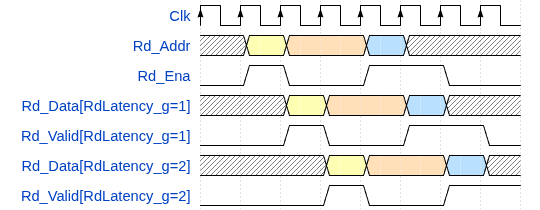
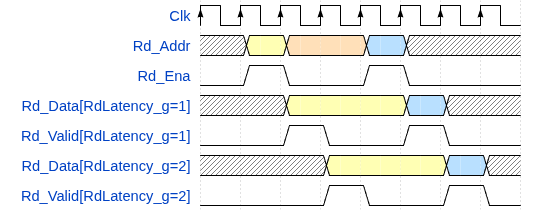
Convert to real read enable (only read RAM when asserted)

diff --git a/doc/base/olo_base_ram_tdp.md b/doc/base/olo_base_ram_tdp.md
@@ -48,7 +48,7 @@ The RAM is implemented in pure VHDL but in a way that allows tools to implement 
 | A_Be     | in     | _Width_g/8_           | All '1' | Port A byte-enables<br>Ignored if _UseByteEnable_g_ = false  |
 | A_WrEna  | in     | 1                     | '0'     | Port A write enable. The memory cell at _A_Addr_ is written only if _A_WrEna_='1'. |
 | A_WrData | in     | _Width_g_             | 0       | Port A write data                                            |
-| A_RdEna  | in     | 1                     | '1'     | Port A read enable. When asserted, _A_RdValid_ is asserted after _RdLatency_g_ cycles. |
+| A_RdEna  | in     | 1                     | '1'     | Port A read enable. When asserted, _A_RdData_ is updated and _A_RdValid_ is asserted after _RdLatency_g_ cycles. |
 | A_RdData | out    | _Width_g_             | N/A     | Port A read data                                             |
 | A_RdValid | out   | 1                     | N/A     | Port A read valid. Asserted _RdLatency_g_ cycles after _A_RdEna_ was asserted. |
 
@@ -62,7 +62,7 @@ The RAM is implemented in pure VHDL but in a way that allows tools to implement 
 | B_Be     | in     | _Width_g*/8_           | All '1' | Port B byte-enables<br>Ignored if _UseByteEnable_g_ = false  |
 | B_WrEna  | in     | 1                     | '0'     | Port B write enable. The memory cell at _B_Addr_ is written only if _B_WrEna_='1'. |
 | B_WrData | in     | _Width_g_             | 0       | Port B write data                                            |
-| B_RdEna  | in     | 1                     | '1'     | Port B read enable. When asserted, _B_RdValid_ is asserted after _RdLatency_g_ cycles. |
+| B_RdEna  | in     | 1                     | '1'     | Port B read enable. When asserted, _B_RdData_ is updated and _B_RdValid_ is asserted after _RdLatency_g_ cycles. |
 | B_RdData | out    | _Width_g_             | N/A     | Port B read data                                             |
 | B_RdValid | out   | 1                     | N/A     | Port B read valid. Asserted _RdLatency_g_ cycles after _B_RdEna_ was asserted. |
 
@@ -88,15 +88,11 @@ required.
 
 ## RdEna and RdValid
 
-The RAM is read and _A_RdData_ / _B_RdData_ are updated every clock cycle, independently of the _A_RdEna_ / _B_RdEna_
-signals.
+The RAM is read and _A_RdData_ / _B_RdData_ are updated only when the _A_RdEna_ / _B_RdEna_ signals are asserted.
 
 The _A_RdEna_ / _B_RdEna_ signals only control the _A_RdValid_ / _B_RdValid_ signals. This means that if _A_RdEna_ is
 asserted, _A_RdValid_ is asserted after _RdLatency_g_ cycles, indicating that the data on _A_RdData_ is valid and can
 be used. This is very useful in pipelined design, especially with configurable _RdLatency_g_ values because it allows
 to design logic around independently of the RAM read latency.
-
-The fact that _A_RdEna_ / _B_RdEna_ and _A_RdValid_ / _B_RdValid_ are used for delay compensation reasons only but
-independent of the actual RAM read process is depicted by below timing diagram:
 
 ![RdValidTiming](./ram/RdValid_TDP.png)

diff --git a/doc/base/olo_base_ram_sdp.md b/doc/base/olo_base_ram_sdp.md
@@ -51,7 +51,7 @@ verify correct mappping by a quick test-synthesis with the target toolchain.
 | Rd_Clk  | in     | 1                     | '0'     | Read-clock - Only used if _IsAsync_g_=true, otherwise _Clk_ is used for the read-port. |
 | Rd_Rst  | in     | 1                     | '0'     | Read-reset synchronous to _Rd_Clk_ - Only used if _IsAsync_g_=true<br>Optional, only resets internal state of _Rd_Valid_<br>Does **NOT** reset the content of memory cells! |
 | Rd_Addr | in     | _ceil(log2(Depth_g))_ | -       | Read address                                                 |
-| Rd_Ena  | in     | 1                     | '1'     | Read enable. When asserted, _Rd_Valid_ is asserted after _RdLatency_g_ cycles. |
+| Rd_Ena  | in     | 1                     | '1'     | Read enable. When asserted, _Rd_Data_ is updated and _Rd_Valid_ is asserted after _RdLatency_g_ cycles.<br>Synchronous to _Clk_ if _IsAsync_g_=false, otherwise synchronous to _Rd_Clk_ |
 | Rd_Data | out    | _Width_g_             | N/A     | Read data                                                    |
 | Rd_Valid | out   | 1                     | N/A     | Read valid. Asserted _RdLatency_g_ cycles after _Rd_Ena_ was asserted. <br>Synchronous to _Clk_ if _IsAsync_g_=false, otherwise synchronous to _Rd_Clk_ |
 
@@ -77,14 +77,11 @@ required.
 
 ## Rd_Ena and Rd_Valid
 
-The RAM is read and _Rd_Data_ is updated accordingly every clock cycle, independently of the _Rd_Ena_ signal.
+The RAM is read and _Rd_Data_ is updated only when _Rd_Ena_ signal is asserted.
 
 The _Rd_Ena_ signal only controls the _Rd_Valid_ signal. This means that if _Rd_Ena_ is asserted, _Rd_Valid_ is
 asserted after _RdLatency_g_ cycles, indicating that the data on _Rd_Data_ is valid and can be used. This is very
 useful in pipelined design, especially with configurable _RdLatency_g_ values because it allows to design logic around
 independently of the RAM read latency.
-
-The fact that _Rd_Ena_ and _Rd_Valid_ are used for delay compensation reasons only but independent of the actual RAM
-read process is depicted by below timing diagram:
 
 ![RdValidTiming](./ram/RdValid_SDP.png)

diff --git a/doc/base/olo_base_ram_sp.md b/doc/base/olo_base_ram_sp.md
@@ -41,7 +41,7 @@ The RAM is implemented in pure VHDL but in a way that allows tools to implement 
 | Be     | in     | _Width_g/8_           | All '1' | Byte-enables<br>Ignored if _UseByteEnable_g_ = false         |
 | WrEna  | in     | 1                     | '1'     | Write enable. The memory cell at _Addr_ is written only if _WrEna_='1'. |
 | WrData | in     | _Width_g_             | -       | Write data                                                   |
-| RdEna  | in     | 1                     | '1'     | Read enable - Optional signal <br> see [RdEna and RdValid](#rdena-and-rdvalid) |
+| RdEna  | in     | 1                     | '1'     | Read enable. When asserted, _RdData_ is updated and _RdValid_ is asserted after _RdLatency_g_ cycles.|
 | RdData | out    | _Width_g_             | N/A     | Read data                                                    |
 | RdValid | out   | 1                     | N/A     | Read valid. <br>Asserted _RdLatency_g_ cycles after _RdEna_ was asserted. |
 
@@ -67,14 +67,11 @@ required.
 
 ## RdEna and RdValid
 
-The RAM is read and _RdData_ is updated accordingly every clock cycle, independently of the _RdEna_ signal.
+TThe RAM is read and _RdData_ is updated only when _RdEna_ signal is asserted.
 
 The _RdEna_ signal only controls the _RdValid_ signal. This means that if _RdEna_ is asserted, _RdValid_ is asserted
 after _RdLatency_g_ cycles, indicating that the data on _RdData_ is valid and can be used. This is very useful in
 pipelined design, especially with configurable _RdLatency_g_ values because it allows to design logic around
 independently of the RAM read latency.
-
-The fact that _RdEna_ and _RdValid_ are used for delay compensation reasons only but independent of the actual RAM
-read process is depicted by below timing diagram:
 
 ![RdValidTiming](./ram/RdValid_SP.png)
